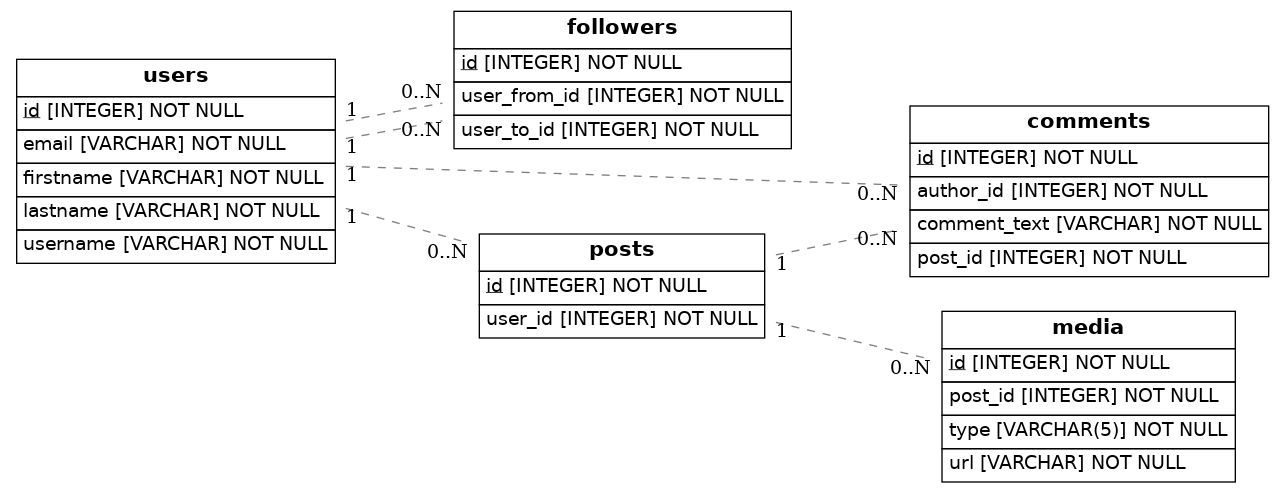
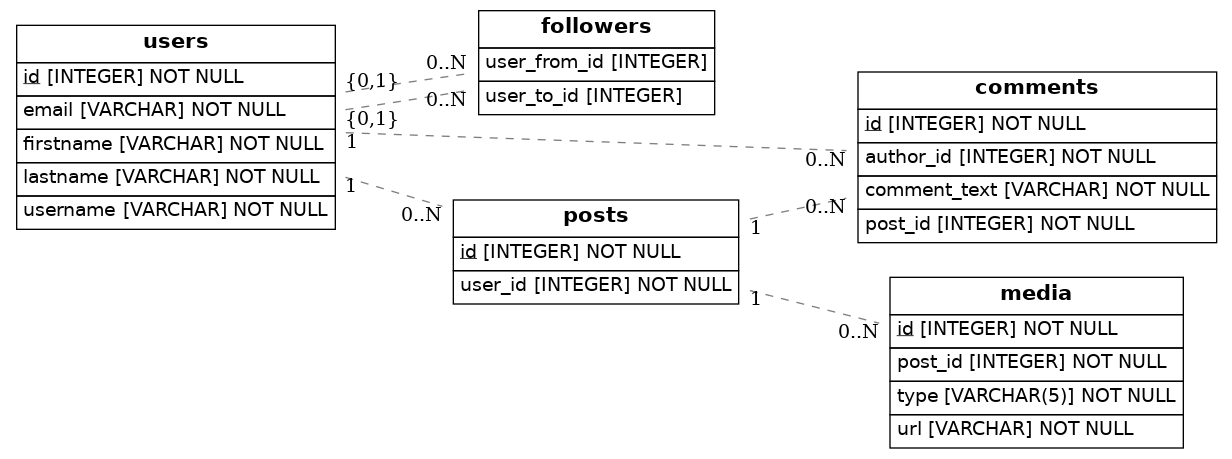
final commit

diff --git a/src/models.py b/src/models.py
@@ -1,79 +1,80 @@
+ 
 import os
 import sys
-from typing import List
-
-from sqlalchemy import create_engine, Enum as SaEnum, ForeignKey, Integer, String, Column
-from sqlalchemy.orm import declarative_base, Mapped, mapped_column, relationship
+from sqlalchemy import Column, ForeignKey, Integer, String, Enum, Table
+from sqlalchemy.orm import relationship, declarative_base, Mapped
 from eralchemy2 import render_er
+from typing import List
 
 Base = declarative_base()
 
-# Tabla de asociación
-# estudiante_curso = Table('estudiante_curso', Base.metadata,
-#     Column('estudiante_id', Integer, ForeignKey('estudiantes.id')),
-#     Column('curso_id', Integer, ForeignKey('cursos.id'))
-# )
-
-#Tabla de asociación
-followers= Table('followers', Base.metadata,
+# Tabla de asociación para seguidores
+followers = Table('followers', Base.metadata,
     Column('user_from_id', Integer, ForeignKey('users.id')),
-    Column('user_to_id', Integer, ForeignKey('users.id')))
-
-
-class Follower(Base):
-    __tablename__ = 'followers'
-    # id: Mapped[int] = mapped_column(primary_key=True) 
-    # user_from_id: Mapped[int] = mapped_column(ForeignKey('users.id'), nullable=False)  # Seguidos por usuario
-    # user_to_id: Mapped[int] = mapped_column(ForeignKey('users.id'), nullable=False)  # Seguidores a usuario
-    user_from_id: Mapped["User"] = relationship("User", foreign_keys=[user_from_id], back_populates="followers_from")
-    user_to_id: Mapped["User"] = relationship("User", foreign_keys=[user_to_id], back_populates="followers_to")
-
+    Column('user_to_id', Integer, ForeignKey('users.id'))
+)
 
 class User(Base):
     __tablename__ = 'users'
-    id: Mapped[int] = mapped_column(primary_key=True)  # va a comment, a post y a follower
-    username: Mapped[str] = mapped_column(nullable=False)
-    firstname: Mapped[str] = mapped_column(nullable=False)
-    lastname: Mapped[str] = mapped_column(nullable=False)
-    email: Mapped[str] = mapped_column(nullable=False, unique=True)
-    followers: Mapped[List["Follower"]] = relationship("Follower", secondary=followers, back_populates='users') #Sobra lo de secondary????
-    comments: Mapped[List["Comment"]] = relationship(back_populates="User")
-    posts: Mapped[List["Post"]] = relationship(back_populates="User")
+    id: Mapped[int] = Column(Integer, primary_key=True)  
+    username: Mapped[str] = Column(String, nullable=False)
+    firstname: Mapped[str] = Column(String, nullable=False)
+    lastname: Mapped[str] = Column(String, nullable=False)
+    email: Mapped[str] = Column(String, nullable=False, unique=True)
+    
+    followers_from: Mapped[List["Follower"]] = relationship("Follower", 
+        foreign_keys=[followers.c.user_from_id], back_populates='user_from')
+    followers_to: Mapped[List["Follower"]] = relationship("Follower", 
+        foreign_keys=[followers.c.user_to_id], back_populates='user_to')
+    
+    comments: Mapped[List["Comment"]] = relationship("Comment", back_populates="user")
+    posts: Mapped[List["Post"]] = relationship("Post", back_populates="user")
 
-#1:N 1 usuario muchos comentarios
+# class Follower(Base):
+#     __tablename__ = 'follower'
+    
+#     user_from_id: Mapped[int] = Column(Integer, ForeignKey('users.id'), primary_key=True)
+#     user_to_id: Mapped[int] = Column(Integer, ForeignKey('users.id'), primary_key=True)
+    
+#     user_from: Mapped[User] = relationship("User", foreign_keys=[user_from_id], back_populates="followers_from")
+#     user_to: Mapped[User] = relationship("User", foreign_keys=[user_to_id], back_populates="followers_to")
+
 class Comment(Base):
     __tablename__ = 'comments'
-    id: Mapped[int] = mapped_column(primary_key=True)
-    comment_text: Mapped[str] = mapped_column(nullable=False)
-    author_id: Mapped[int] = mapped_column(ForeignKey('users.id'), nullable=False)  # Viene desde user
-    users: Mapped["User"] = relationship(back_populates="comments")
-    post_id: Mapped[int] = mapped_column(ForeignKey('posts.id'), nullable=False)  # viene desde post
-    posts: Mapped["Post"] = relationship("Post", back_populates="comments")
+    id: Mapped[int] = Column(Integer, primary_key=True)
+    comment_text: Mapped[str] = Column(String, nullable=False)
+    author_id: Mapped[int] = Column(ForeignKey('users.id'), nullable=False)
+    
+    user: Mapped[User] = relationship(back_populates="comments")
+    post_id: Mapped[int] = Column(ForeignKey('posts.id'), nullable=False)
+    post: Mapped["Post"] = relationship("Post", back_populates="comments")
 
-#1:N 1 usuario muchos posts, 1 post muchos comentarios
 class Post(Base):
     __tablename__ = 'posts'
-    id: Mapped[int] = mapped_column(primary_key=True)  # Clave primaria
-    user_id: Mapped[int] = mapped_column(ForeignKey('users.id'), nullable=False)
-    users: Mapped["User"] = relationship(back_populates="posts")
-    multimedia: Mapped[List["Media"]] = relationship(back_populates="posts")
-    comments: Mapped[List["Comment"]] = relationship("Comment", back_populates="posts")
+    id: Mapped[int] = Column(Integer, primary_key=True)
+    user_id: Mapped[int] = Column(ForeignKey('users.id'), nullable=False)
+    user: Mapped[User] = relationship(back_populates="posts")
+    
+    multimedia: Mapped[List["Media"]] = relationship("Media", back_populates="post")
+    comments: Mapped[List[Comment]] = relationship("Comment", back_populates="post")
 
-
-#1:N 1 post muchos media
 class Media(Base):
     __tablename__ = 'media'
-    id: Mapped[int] = mapped_column(primary_key=True)
-    type: Mapped[Enum] = mapped_column(Enum('image', 'video'), nullable=False)  # Especificar tipos
-    url: Mapped[str] = mapped_column(nullable=False)
-    post_id: Mapped[int] = mapped_column(ForeignKey('posts.id'), nullable=False)
-    posts: Mapped["Post"] = relationship(back_populates="multimedia")
-
+    id: Mapped[int] = Column(Integer, primary_key=True)
+    type: Mapped[str] = Column(Enum('image', 'video'), nullable=False)
+    url: Mapped[str] = Column(String, nullable=False)
+    post_id: Mapped[int] = Column(ForeignKey('posts.id'), nullable=False)
+    post: Mapped[Post] = relationship(back_populates="multimedia")
 
     def to_dict(self):
-        return {}
+        return {
+            # 'id': self.id,
+            # 'type': self.type,
+            # 'url': self.url,
+            # 'post_id': self.post_id
+        }
 
-## Draw from SQLAlchemy base
+# Generar el diagrama
 try:
     result = render_er(Base, 'diagram.png')
     print("Success! Check the diagram.png file")
